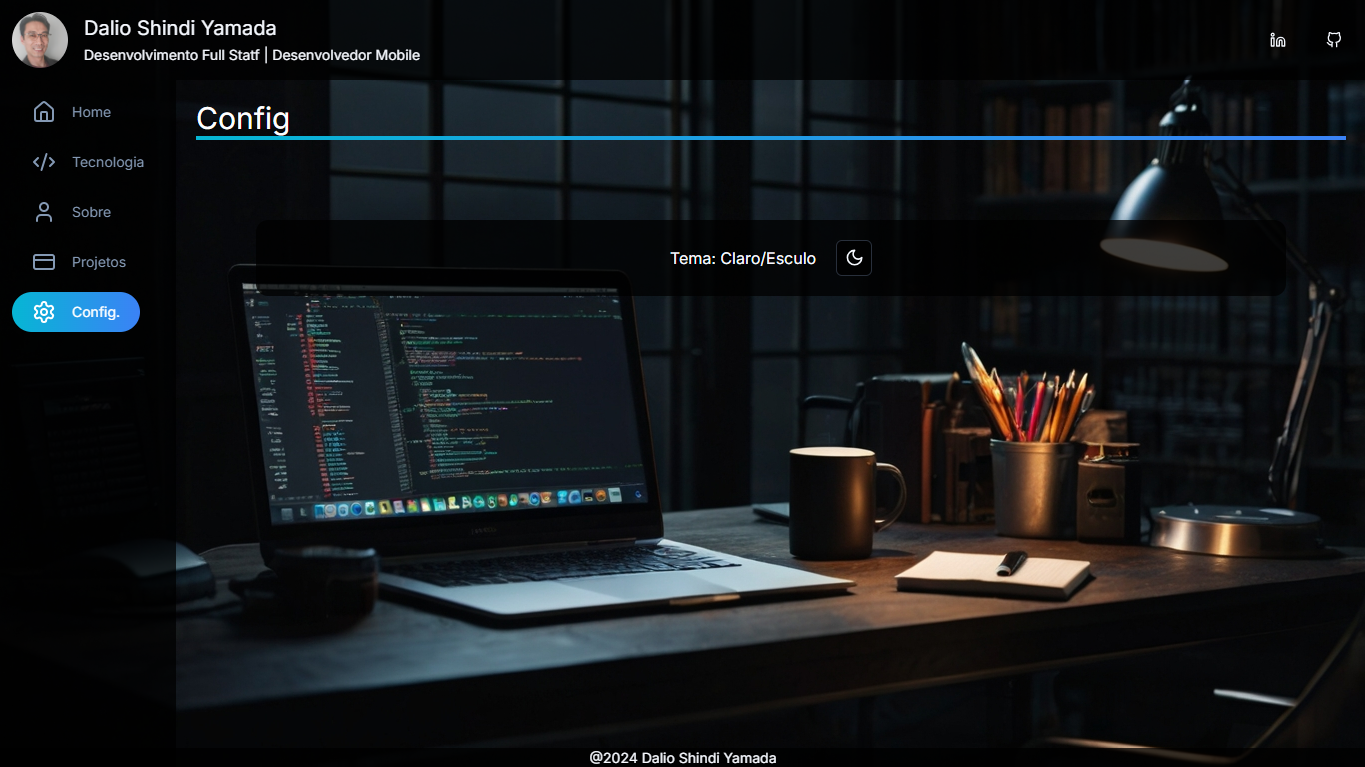
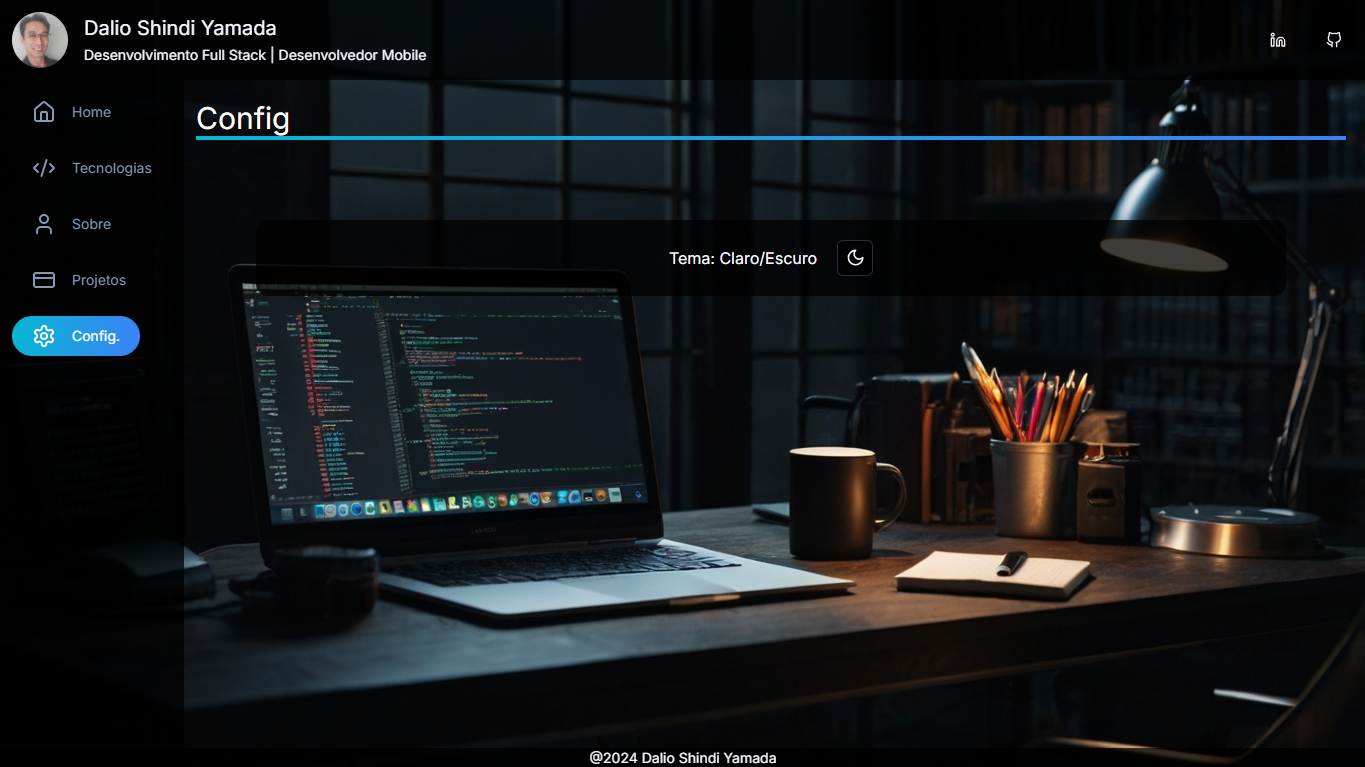
update

diff --git a/src/app/tecnologia/page.tsx b/src/app/tecnologia/page.tsx
@@ -7,11 +7,11 @@ export default function Tecnologia() {
       <div className='grid sm:grid-cols-2 grid-cols-1'>
         <p className='p-5'>
           HTML, Css, JavaScript, Typescript, React, Styled Components, React
-          Native, Expo, Next.js, shadcn_ui Tailwindcss, Node.js, Express,
+          Native, Expo, Next.js, shadcn_ui, Tailwindcss, Node.js, Express,
           Fastify, Golang, Prisma, Docker, AmazonAWS, PostgreSQL, MongoDB,
           Vercel, Git, Github, VS Code, Android Studio, Figma, Axios, Eslint,
-          Prettier, Biome, npm, Yarn, Mui, Zod, notion, obsidian, linkedin,
-          discord, windows
+          Prettier, Biome, npm, Yarn, Mui, Zod, Notion, Obsidian, Linkedin,
+          Discord, Windows
         </p>
         <div className='flex justify-center'>
           <IconCloudDemo />

diff --git a/src/app/tecnologia/config/page.tsx b/src/app/tecnologia/config/page.tsx
@@ -4,7 +4,7 @@ export default function Config() {
   return (
     <div className=' m-20 p-5 flex flex-col items-center justify-center bg-background rounded-xl'>
       <div className='flex items-center gap-5'>
-        <p>Tema: Claro/Esculo</p>
+        <p>Tema: Claro/Escuro</p>
         <ModelDark />
       </div>
     </div>

diff --git a/README.md b/README.md
@@ -10,7 +10,6 @@
   - [Pré-requisitos](#pré-requisitos)
   - [Instalação](#instalação)
   - [Executando o Projeto](#executando-o-projeto)
-- [Deploy](#deploy)
 - [Contribuindo](#contribuindo)
 - [Contato](#contato)
 
